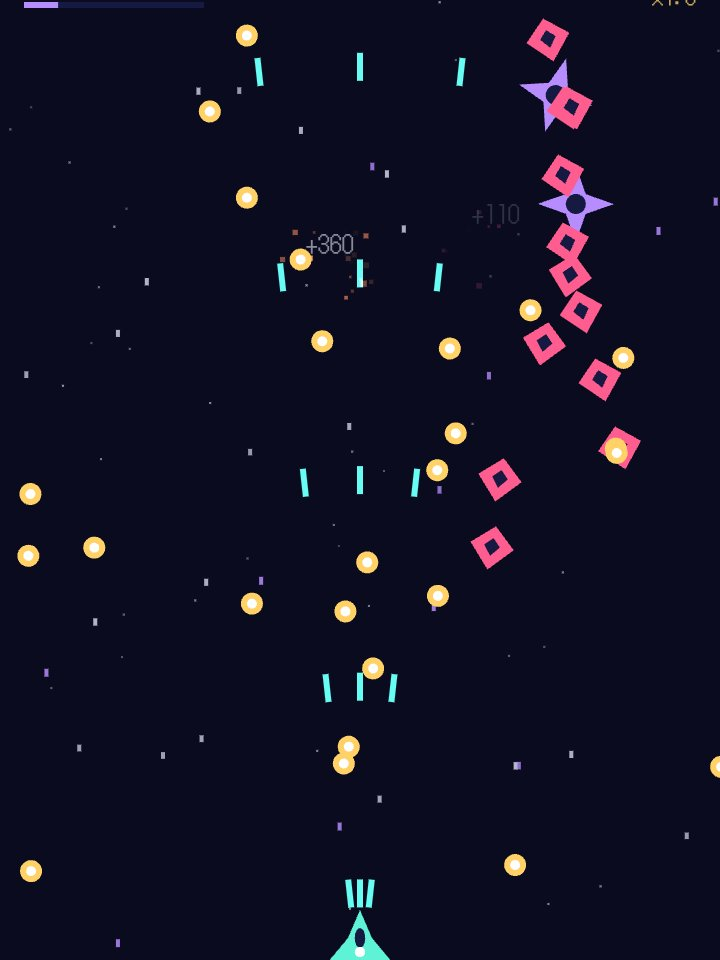
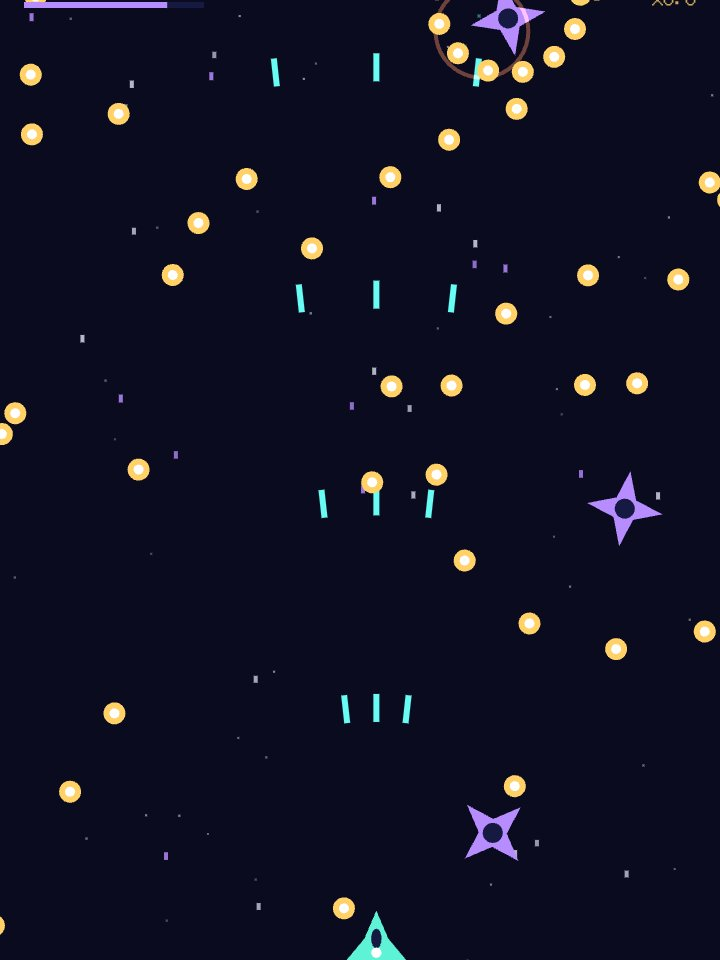
ソフトクリーム巻き: クリームの見た目を調整、サムネイル撮影でHUDを隠す
Claude-Session: https://claude.ai/code/session_01KKu2fmAripgTMFjtacUika

diff --git a/クロード作業場/site/play/softcream/index.html b/クロード作業場/site/play/softcream/index.html
@@ -172,10 +172,10 @@ import { RoomEnvironment } from 'three/addons/environments/RoomEnvironment.js';
   // 1ユニット = 3cm。コーンのふちの半径 1.4(約4cm)、クリームの太さの半径 0.3
   const UNIT_CM = 3, RIM = 1.4, ROPE = 0.3, SPIN = 3.9, START_X = 1.15, MAX_POINTS = 1150;
   const FLAVORS = {
-    'バニラ': { a: [246, 239, 224], b: [246, 239, 224] },
+    'バニラ': { a: [255, 251, 240], b: [255, 251, 240] },
     'チョコ': { a: [110, 66, 44], b: [110, 66, 44] },
     '抹茶': { a: [170, 196, 120], b: [170, 196, 120] },
-    'ミックス': { a: [246, 239, 224], b: [110, 66, 44] },
+    'ミックス': { a: [255, 251, 240], b: [110, 66, 44] },
   };
   const RANKS = [[95, '伝説のソフト職人'], [85, 'ソフトクリーム職人'], [70, '看板アルバイト'], [50, '見習い'], [0, '新人']];
   const rankOf = s => RANKS.find(r => s >= r[0])[1];
@@ -259,7 +259,7 @@ import { RoomEnvironment } from 'three/addons/environments/RoomEnvironment.js';
   const stand = new THREE.Mesh(new THREE.CylinderGeometry(0.75, 1.1, 0.5, 32), new THREE.MeshStandardMaterial({ color: 0xf08aa6, roughness: 0.4 }));
   stand.position.y = -4.35; stand.castShadow = true; coneHolder.add(stand);
   const creamGroup = new THREE.Group(); coneSpin.add(creamGroup);
-  const creamMat = new THREE.MeshStandardMaterial({ vertexColors: true, roughness: 0.42, metalness: 0 });
+  const creamMat = new THREE.MeshStandardMaterial({ vertexColors: true, roughness: 0.55, metalness: 0, envMapIntensity: 0.6 });
 
   // 落ちてくるクリーム(機械から真下へ)
   const streamMat = new THREE.MeshStandardMaterial({ color: 0xf6efe0, roughness: 0.4 });
@@ -307,10 +307,10 @@ import { RoomEnvironment } from 'three/addons/environments/RoomEnvironment.js';
       if (capStart && i < 3) rr *= 0.45 + 0.55 * (i / 3);
       if (capEnd && i > n - 4) rr *= 0.35 + 0.65 * ((n - 1 - i) / 3);
       for (let j = 0; j < RS; j++) {
-        const a = j / RS * Math.PI * 2, ridge = 1 + 0.15 * Math.cos(8 * a), r = rr * ridge;
+        const a = j / RS * Math.PI * 2, ridge = 1 + 0.07 * Math.cos(8 * a), r = rr * ridge;
         radial.copy(u).multiplyScalar(Math.cos(a)).addScaledVector(v, Math.sin(a));
         tang.copy(u).multiplyScalar(-Math.sin(a)).addScaledVector(v, Math.cos(a));
-        nn.copy(radial).addScaledVector(tang, 1.2 * Math.sin(8 * a) * 0.15 * 8 / 8).normalize();
+        nn.copy(radial).addScaledVector(tang, 0.5 * Math.sin(8 * a)).normalize();
         const k = (i * RS + j) * 3;
         pos[k] = pts[i].x + radial.x * r; pos[k + 1] = pts[i].y + radial.y * r; pos[k + 2] = pts[i].z + radial.z * r;
         nor[k] = nn.x; nor[k + 1] = nn.y; nor[k + 2] = nn.z;

diff --git a/クロード作業場/src/softcream/index.html b/クロード作業場/src/softcream/index.html
@@ -162,10 +162,10 @@ import { RoomEnvironment } from 'three/addons/environments/RoomEnvironment.js';
   // 1ユニット = 3cm。コーンのふちの半径 1.4(約4cm)、クリームの太さの半径 0.3
   const UNIT_CM = 3, RIM = 1.4, ROPE = 0.3, SPIN = 3.9, START_X = 1.15, MAX_POINTS = 1150;
   const FLAVORS = {
-    'バニラ': { a: [246, 239, 224], b: [246, 239, 224] },
+    'バニラ': { a: [255, 251, 240], b: [255, 251, 240] },
     'チョコ': { a: [110, 66, 44], b: [110, 66, 44] },
     '抹茶': { a: [170, 196, 120], b: [170, 196, 120] },
-    'ミックス': { a: [246, 239, 224], b: [110, 66, 44] },
+    'ミックス': { a: [255, 251, 240], b: [110, 66, 44] },
   };
   const RANKS = [[95, '伝説のソフト職人'], [85, 'ソフトクリーム職人'], [70, '看板アルバイト'], [50, '見習い'], [0, '新人']];
   const rankOf = s => RANKS.find(r => s >= r[0])[1];
@@ -249,7 +249,7 @@ import { RoomEnvironment } from 'three/addons/environments/RoomEnvironment.js';
   const stand = new THREE.Mesh(new THREE.CylinderGeometry(0.75, 1.1, 0.5, 32), new THREE.MeshStandardMaterial({ color: 0xf08aa6, roughness: 0.4 }));
   stand.position.y = -4.35; stand.castShadow = true; coneHolder.add(stand);
   const creamGroup = new THREE.Group(); coneSpin.add(creamGroup);
-  const creamMat = new THREE.MeshStandardMaterial({ vertexColors: true, roughness: 0.42, metalness: 0 });
+  const creamMat = new THREE.MeshStandardMaterial({ vertexColors: true, roughness: 0.55, metalness: 0, envMapIntensity: 0.6 });
 
   // 落ちてくるクリーム(機械から真下へ)
   const streamMat = new THREE.MeshStandardMaterial({ color: 0xf6efe0, roughness: 0.4 });
@@ -297,10 +297,10 @@ import { RoomEnvironment } from 'three/addons/environments/RoomEnvironment.js';
       if (capStart && i < 3) rr *= 0.45 + 0.55 * (i / 3);
       if (capEnd && i > n - 4) rr *= 0.35 + 0.65 * ((n - 1 - i) / 3);
       for (let j = 0; j < RS; j++) {
-        const a = j / RS * Math.PI * 2, ridge = 1 + 0.15 * Math.cos(8 * a), r = rr * ridge;
+        const a = j / RS * Math.PI * 2, ridge = 1 + 0.07 * Math.cos(8 * a), r = rr * ridge;
         radial.copy(u).multiplyScalar(Math.cos(a)).addScaledVector(v, Math.sin(a));
         tang.copy(u).multiplyScalar(-Math.sin(a)).addScaledVector(v, Math.cos(a));
-        nn.copy(radial).addScaledVector(tang, 1.2 * Math.sin(8 * a) * 0.15 * 8 / 8).normalize();
+        nn.copy(radial).addScaledVector(tang, 0.5 * Math.sin(8 * a)).normalize();
         const k = (i * RS + j) * 3;
         pos[k] = pts[i].x + radial.x * r; pos[k + 1] = pts[i].y + radial.y * r; pos[k + 2] = pts[i].z + radial.z * r;
         nor[k] = nn.x; nor[k + 1] = nn.y; nor[k + 2] = nn.z;

diff --git a/クロード作業場/tools/capture_site_thumbs.js b/クロード作業場/tools/capture_site_thumbs.js
@@ -87,7 +87,7 @@ async function localRoutes(page) {
   // ソフトクリーム巻き:自動で巻いて、できあがる直前
   {
     const p = await open('/play/softcream/index.html?capture');
-    await p.addStyleTag({ content: '.mini, .yk-home, #doneUi { display: none !important; }' });
+    await p.addStyleTag({ content: '.mini, .yk-home, #doneUi { display: none !important; } #cv { opacity: 0; }' });
     await p.evaluate(() => window.__capture.play(true));
     const t0 = Date.now();
     while (Date.now() - t0 < 400000) {
